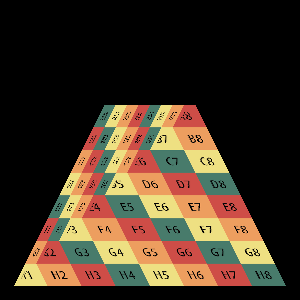
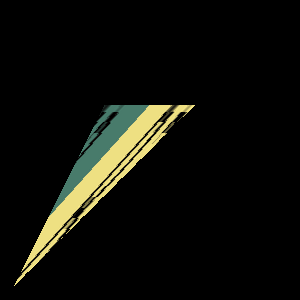
wip...

diff --git a/task03/main.cpp b/task03/main.cpp
@@ -64,11 +64,37 @@ void draw_3d_triangle_with_texture(
       const float area2 = (r0 - s).cross(r1 - s);
       if (area0 < 0. || area1 < 0. || area2 < 0.) { continue; } // the pixel is outside the triangle (r0, r1, r2)
       Eigen::Vector3f bc = Eigen::Vector3f(area0, area1, area2) / (area0 + area1 + area2); // barycentric coordinate on screen
+      std::cout << "[1st] x:" << bc[0] << ", y:" << bc[1] << ", z:" << bc[2] << std::endl;
       // `bc` gives the barycentric coordinate **on the screen** and it is distorted.
       // Compute the barycentric coordinate ***on the 3d triangle** below that gives the correct texture mapping.
       // (Hint: formulate a linear system with 4x4 coefficient matrix and solve it to get the barycentric coordinate)
+
+//NOTE:
+//[q0] x: -0.909091, y: -0.909091, z: -0.142857
+//[q1] x: 0.909091, y: 0.909091, z: -2.71429
+//[q2] x: -0.909091, y: 0.909091, z: -2.71429
+//[uv0] x: 0, y: 1
+//[uv1] x: 1, y: 0
+//[uv2] x: 0, y: -1
+      const float focal = 1.0; // focal length of the camera
+      Eigen::Matrix3f H;
+      H << focal, 0, 0,
+          0, focal, 0,
+          0, 0, 1;
+      Eigen::Vector3f va, vb, vc;
+      va = H * q0.head<3>();
+      vb = H * q1.head<3>();
+      vc = H * q2.head<3>();
       Eigen::Matrix4f coeff;
-      Eigen::Vector4f rhs;
+      coeff << va[0], vb[0], vc[0], 0,
+              va[1], vb[1], vc[1], 0,
+              va[2], vb[2], vc[2], 0,
+              1, 1, 1, 1;
+      Eigen::Vector4f rhs = Eigen::Vector4f(s.x(), s.y(), 1, 0);
+      const auto ans = coeff.inverse() * rhs;
+      const auto ans3 = (ans.head<3>());
+      bc = (ans3.array() + 1.) / 2.;
+      std::cout << "[2nd] x:" << bc[0] << ", y:" << bc[1] << ", z:" << bc[2] << std::endl;
 
       // do not change below
       auto uv = uv0 * bc[0] + uv1 * bc[1] + uv2 * bc[2]; // uv coordinate of the pixel
@@ -113,11 +139,11 @@ int main() {
   const unsigned int height_img = 300;
   std::vector<unsigned char> img_data(height_img * width_img * 3, 0); // grayscale image initialized white
   // draw first triangle connecting point 0,1,2
-  draw_3d_triangle_with_texture(
-      q0, q1, q2,
-      uv0, uv1, uv2,
-      width_img, height_img, img_data,
-      width_tex, height_tex, img_data_tex);
+//  draw_3d_triangle_with_texture(
+//      q0, q1, q2,
+//      uv0, uv1, uv2,
+//      width_img, height_img, img_data,
+//      width_tex, height_tex, img_data_tex);
   // draw second triangle connecting point 0,2,3
   draw_3d_triangle_with_texture(
       q0, q2, q3,
